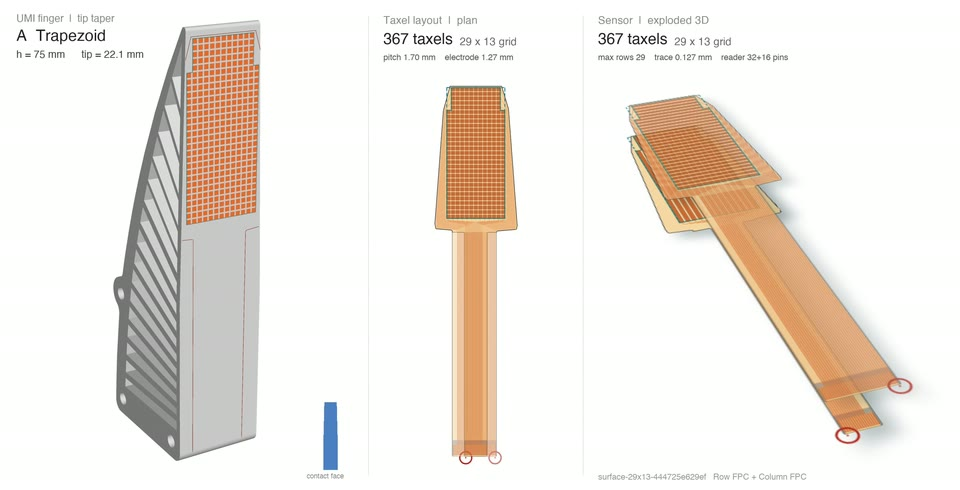
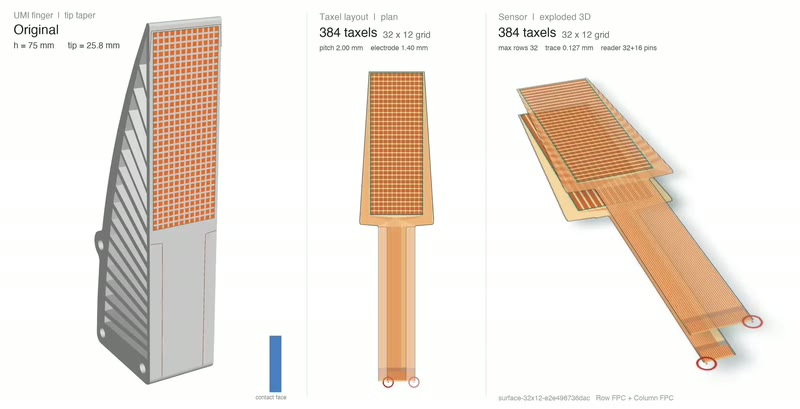
Overview app demos: review fixes
- Posters are now each clip's first frame, so playback no longer jumps
  back when it starts.
- Leaving full screen resumes a clip paused there and returns focus to
  the expand button; full screen uses a normal cursor and black bars.
- Hide the decorative window dots at 769-900px so labels are not cut off.
- Darken the Discord strip text to keep 4.5:1 contrast on its tint.
- No hover lift under prefers-reduced-motion; guard the iOS full-screen
  call; balance the title wrap.

diff --git a/index.html b/index.html
@@ -21,7 +21,7 @@
 
   <link href="https://fonts.googleapis.com/css?family=Google+Sans|Noto+Sans|Castoro&display=swap" rel="stylesheet">
   <link rel="stylesheet" href="./static/css/bulma.min.css">
-  <link rel="stylesheet" href="./static/css/index.css?v=20261027a">
+  <link rel="stylesheet" href="./static/css/index.css?v=20261027b">
   <link rel="stylesheet" href="https://cdnjs.cloudflare.com/ajax/libs/font-awesome/6.5.0/css/all.min.css">
   <!-- Academicons is only used below the fold — load it without blocking render -->
   <link rel="stylesheet" href="https://cdn.jsdelivr.net/gh/jpswalsh/academicons@1/css/academicons.min.css"
@@ -1980,25 +1980,36 @@
   // Customization app demos: the expand button (or a click on the clip) plays it
   // full screen, with native controls only while full screen.
   (function () {
+    var trigger = null; // element that opened full screen, refocused on exit
     document.querySelectorAll('.ft-app-window').forEach(function (win) {
       var video = win.querySelector('video');
       var open = function () {
         if (document.fullscreenElement) return; // already full screen: let clicks play/pause
+        trigger = this;
         if (video.requestFullscreen) {
           video.controls = true;
           var p = video.requestFullscreen();
           if (p && p.catch) p.catch(function () { video.controls = false; });
         } else if (video.webkitEnterFullscreen) {
-          video.webkitEnterFullscreen(); // iOS Safari: video-only full screen
+          // iOS Safari: video-only full screen; throws if the player isn't ready yet
+          try { video.webkitEnterFullscreen(); } catch (e) {}
         }
       };
       win.querySelector('.ft-app-expand').addEventListener('click', open);
       video.addEventListener('click', open);
     });
     document.addEventListener('fullscreenchange', function () {
-      if (!document.fullscreenElement) {
-        document.querySelectorAll('.ft-app-window video').forEach(function (v) { v.controls = false; });
-      }
+      if (document.fullscreenElement) return;
+      document.querySelectorAll('.ft-app-window video').forEach(function (v) {
+        v.controls = false;
+        // Inline clips have no controls, so resume one that was paused in full screen
+        if (v.paused) {
+          var p = v.play();
+          if (p && p.catch) p.catch(function () {});
+        }
+      });
+      if (trigger && trigger.classList.contains('ft-app-expand')) trigger.focus({ preventScroll: true });
+      trigger = null;
     });
   })();
 </script>

diff --git a/static/css/index.css b/static/css/index.css
@@ -451,6 +451,7 @@ img[alt] {
   font-weight: 700;
   letter-spacing: -0.015em;
   line-height: 1.3;
+  text-wrap: balance;
 }
 
 .ft-app-soon {
@@ -643,6 +644,19 @@ img[alt] {
   cursor: zoom-in;
 }
 
+.ft-app-window video:fullscreen {
+  cursor: auto;
+  background: #000;
+}
+
+/* Two-up windows are narrowest just above the mobile breakpoint: drop the
+   decorative dots there so the labels are not cut off */
+@media screen and (min-width: 769px) and (max-width: 900px) {
+  .ft-app-dots {
+    display: none;
+  }
+}
+
 .ft-app-cta {
   display: flex;
   align-items: center;
@@ -672,7 +686,7 @@ img[alt] {
   min-width: 0;
   font-size: 0.95rem;
   line-height: 1.5;
-  color: var(--ft-muted);
+  color: #56647a; /* a shade darker than --ft-muted to keep 4.5:1 on the tinted strip */
 }
 
 .ft-app-cta-text strong {
@@ -1505,6 +1519,12 @@ h2[style*="color: rgb(189, 189, 189);"] {
 
   .ft-app-soon-dot::after {
     animation: none;
+  }
+
+  .ft-app-window,
+  .ft-app-window:hover {
+    transform: none;
+    transition: none;
   }
 }
 
